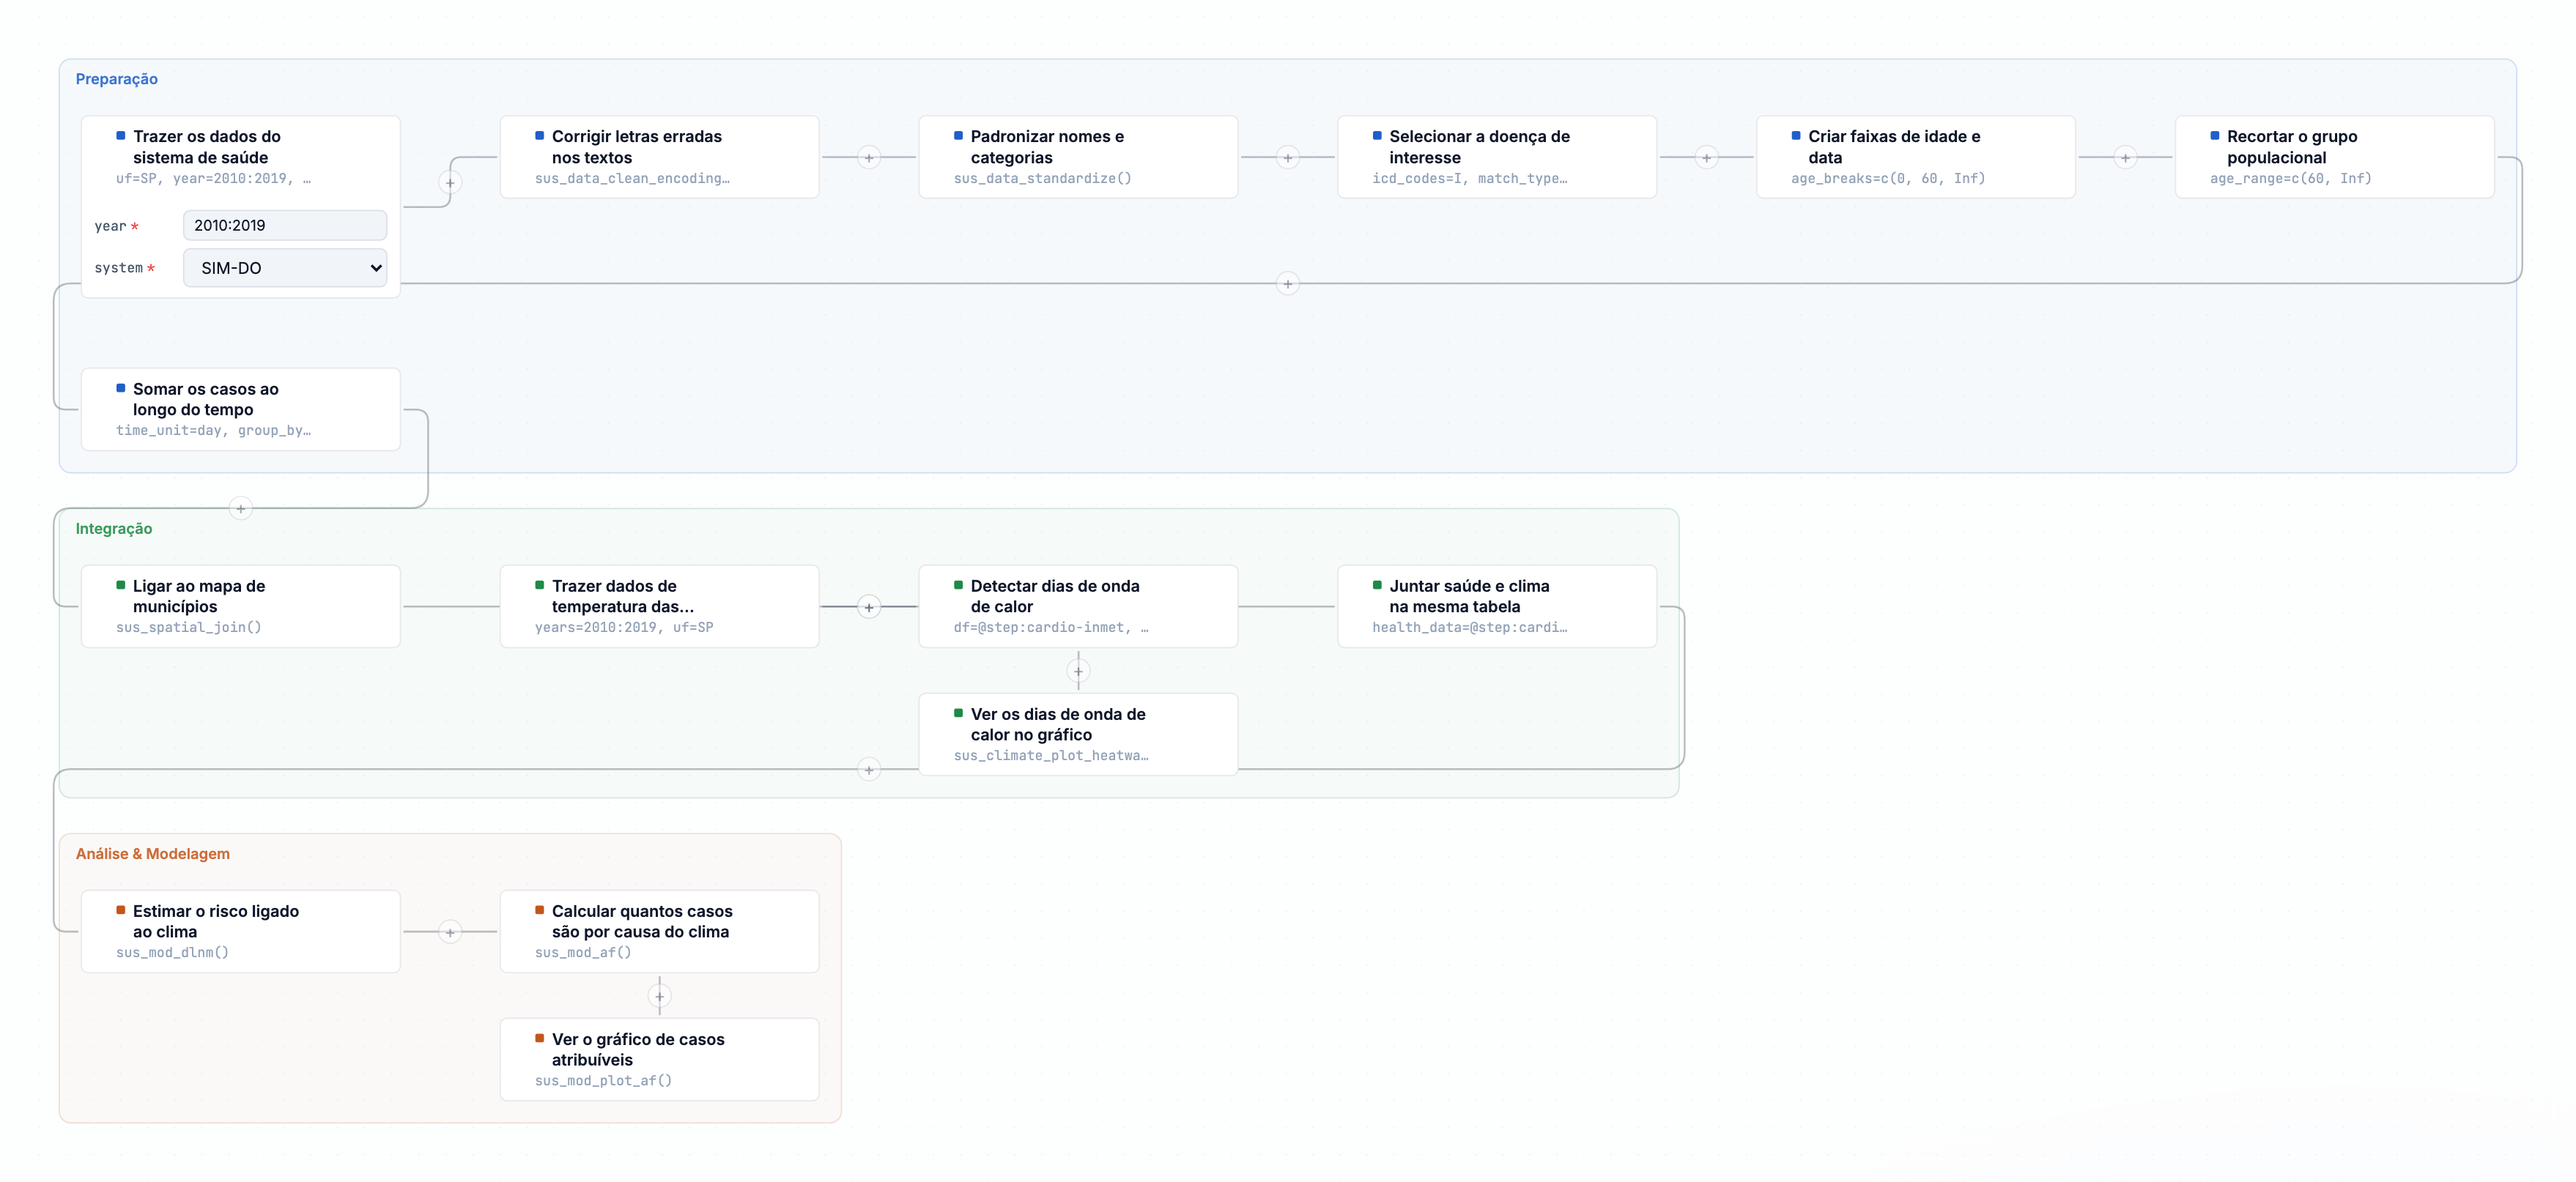
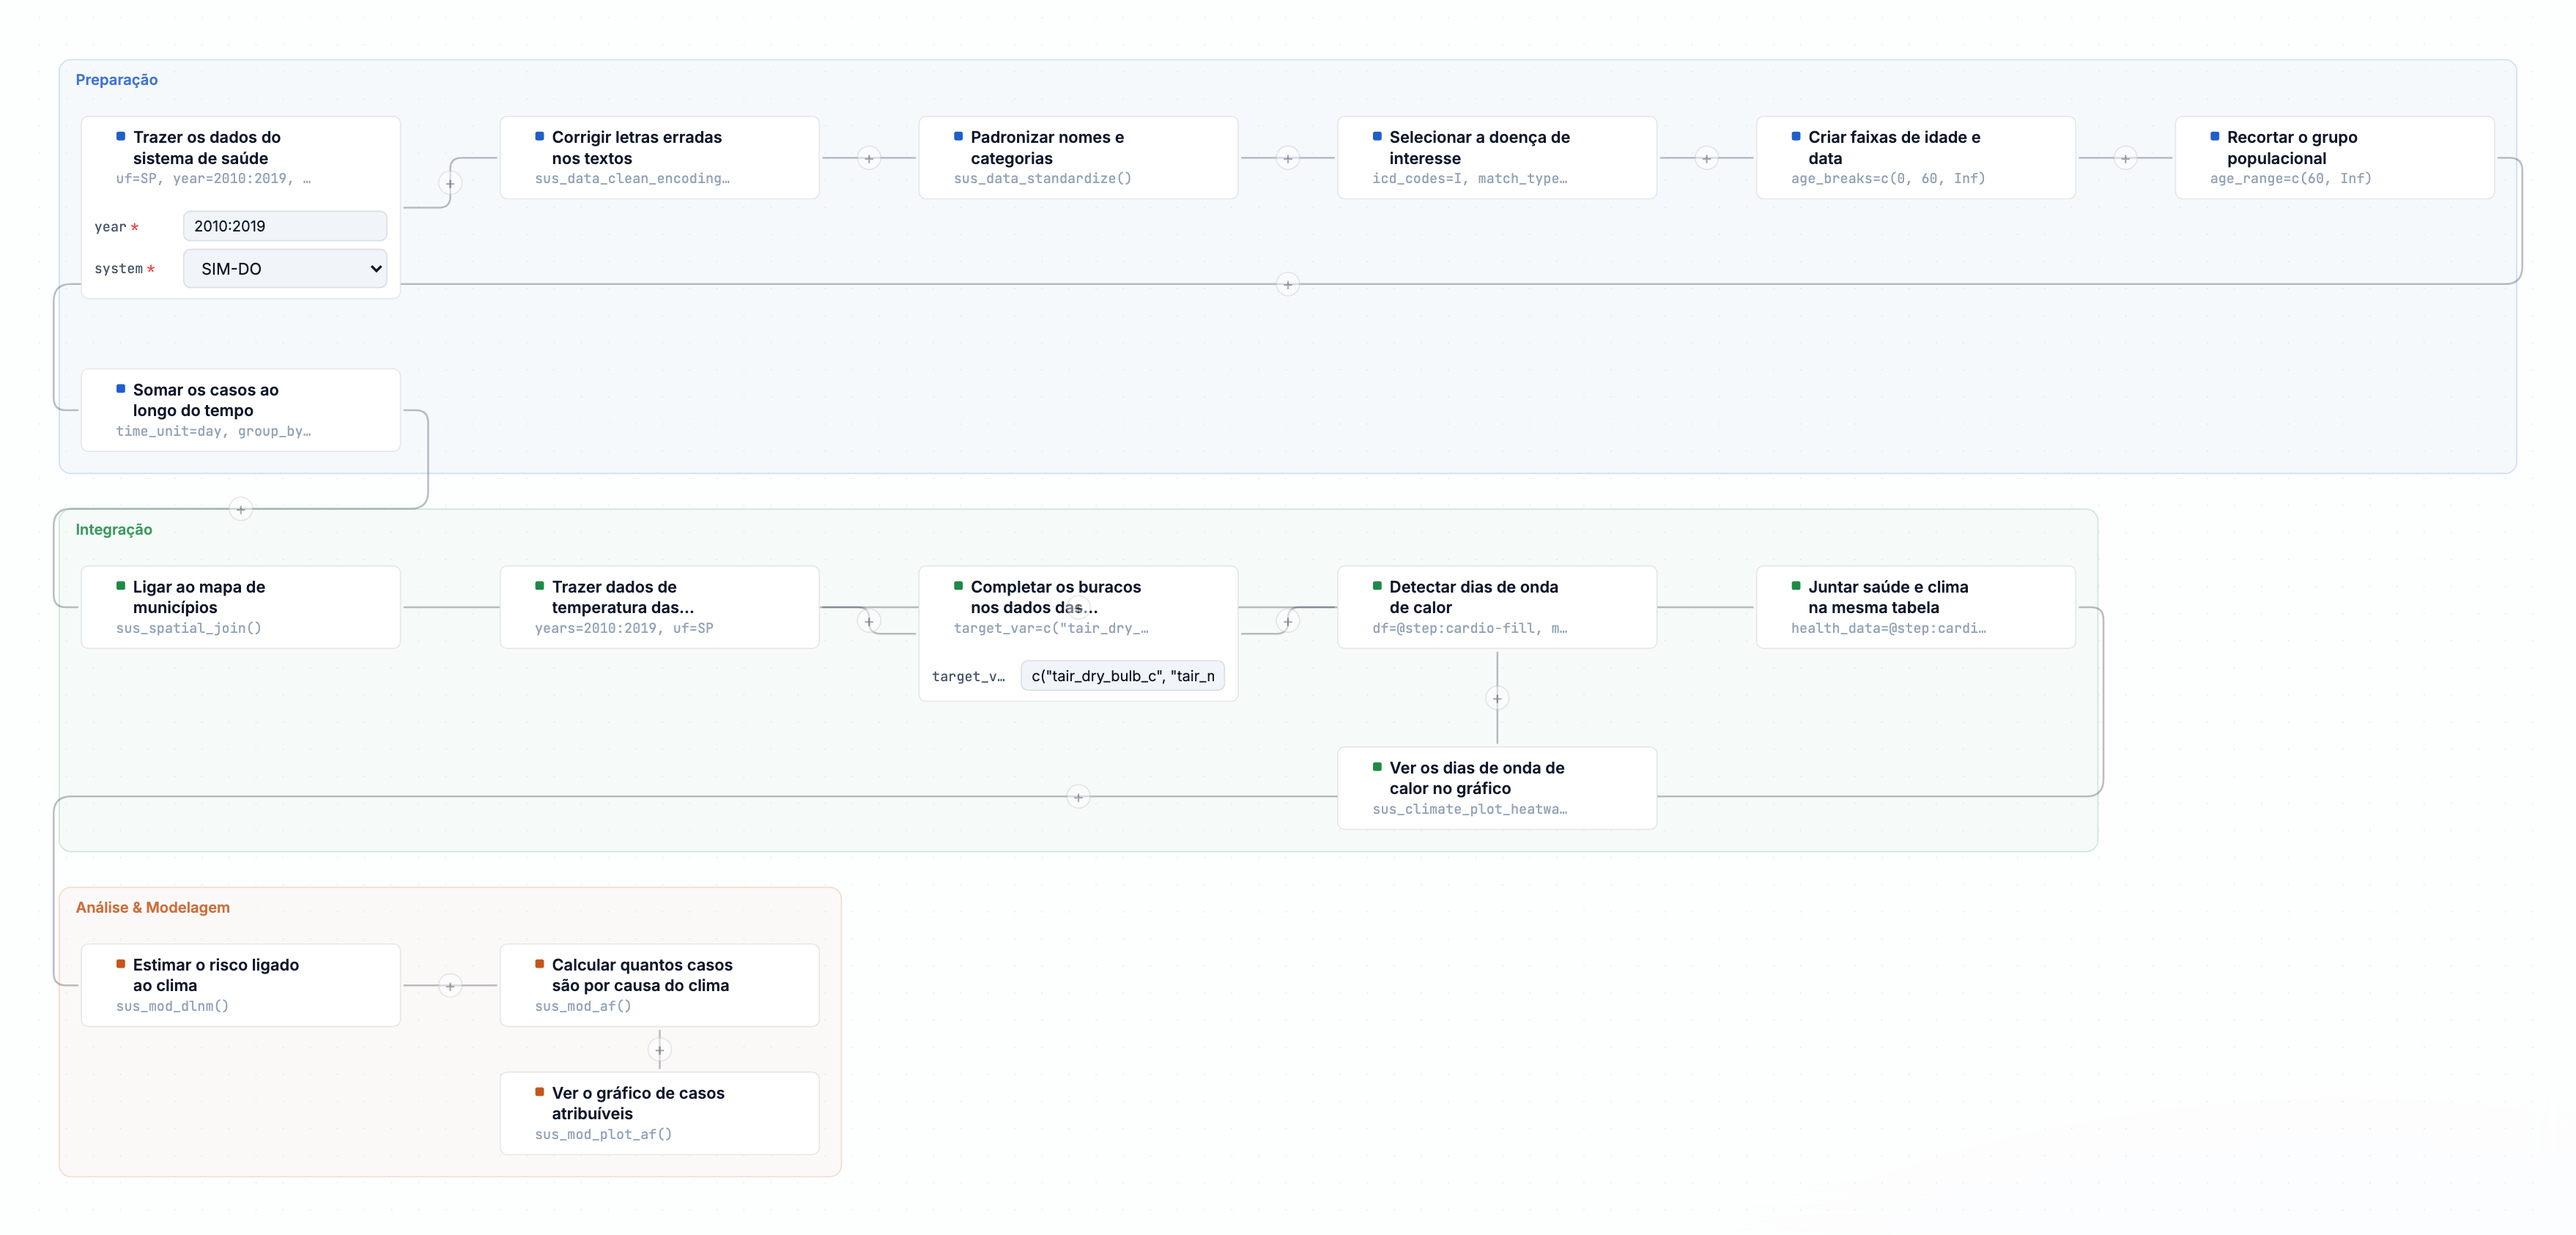
Case-study Modelos: add sus_climate_fill_inmet right after sus_climate_inmet
- dengue, respiratory, cardiovascular and cold-hospitalization templates fill station gaps
  (temperature; + humidity for respiratory; mean/max/min for the wave detections) and every
  later step reads the filled series
- plain-language title/description for Vigilancia mode; verify-graph step counts +1
- guide chapters 4 and 7-10: step lists renumbered, counts and Modelo screenshots refreshed
  (guide not re-rendered yet: installers must carry the new Modelos first)

diff --git a/src/templates/cardio-calor.ts b/src/templates/cardio-calor.ts
@@ -71,6 +71,16 @@ export const CARDIO_IDOSOS_CALOR: TutorialDef = {
       },
     },
     {
+      id: 'cardio-fill',
+      fn: 'sus_climate_fill_inmet',
+      values: { target_var: 'c("tair_dry_bulb_c", "tair_max_c", "tair_min_c")' },
+      explain: {
+        pt: 'Completamos as falhas das séries das estações (temperatura média, máxima e mínima) com um modelo de aprendizado de máquina treinado por estação (XGBoost), para que defasagens e indicadores não tenham buracos. Estações com mais de 40% de falhas são excluídas. Pode levar vários minutos; para testar a qualidade do preenchimento antes, use `run_evaluation = TRUE`.',
+        en: 'We fill the gaps in the station series (mean, maximum and minimum temperature) with a machine-learning model trained per station (XGBoost), so lags and indicators have no holes. Stations with more than 40% gaps are excluded. It can take several minutes; to test the quality of the filling first, use `run_evaluation = TRUE`.',
+        es: 'Rellenamos los vacíos de las series de las estaciones (temperatura media, máxima y mínima) con un modelo de aprendizaje automático entrenado por estación (XGBoost), para que rezagos e indicadores no tengan huecos. Se excluyen las estaciones con más de 40% de vacíos. Puede tardar varios minutos; para probar la calidad del relleno antes, use `run_evaluation = TRUE`.',
+      },
+    },
+    {
       // heatwave detection is a TERMINAL side-branch: it must read the raw INMET climate frame
       // (sus_climate_compute_heatwaves aborts unless sus_meta(df,"type") is climate/inmet/filled/
       // indicators — heatwaves.R:302-310) and it returns a climasus_hw list, not a climasus_df
@@ -80,7 +90,7 @@ export const CARDIO_IDOSOS_CALOR: TutorialDef = {
       // cardio-merged's `climate_data` reference reads.
       id: 'cardio-heatwave',
       fn: 'sus_climate_compute_heatwaves',
-      values: { df: stepRef('cardio-inmet'), method: 'WHO', percentile: '90', baseline_start: '"2010-01-01"', baseline_end: '"2015-12-31"' },
+      values: { df: stepRef('cardio-fill'), method: 'WHO', percentile: '90', baseline_start: '"2010-01-01"', baseline_end: '"2015-12-31"' },
       explain: {
         pt: 'Detectamos ondas de calor com a metodologia da OMS, percentil 90 como limiar. O limiar usa um período de referência fixo (2010–2015), não a série inteira; são cinco anos, uma base curta que deve ser declarada como limitação.',
         en: 'We detect heatwaves using the WHO methodology, 90th percentile as the threshold. The threshold uses a fixed reference period (2010–2015), not the full series; five years is a short baseline and should be declared as a limitation.',
@@ -105,7 +115,7 @@ export const CARDIO_IDOSOS_CALOR: TutorialDef = {
       // is the usual window in heat-mortality DLNM work, but treat it as an illustrative default.
       values: {
         health_data: stepRef('cardio-spatial'),
-        climate_data: stepRef('cardio-inmet'),
+        climate_data: stepRef('cardio-fill'),
         time_unit: 'day',
         climate_var: 'tair_dry_bulb_c',
         temporal_strategy: 'distributed_lag',

diff --git a/src/templates/dengue.ts b/src/templates/dengue.ts
@@ -88,6 +88,16 @@ export const DENGUE_CLIMA: TutorialDef = {
       },
     },
     {
+      id: 'dengue-fill',
+      fn: 'sus_climate_fill_inmet',
+      values: { target_var: '"tair_dry_bulb_c"' },
+      explain: {
+        pt: 'Completamos as falhas das séries das estações (temperatura) com um modelo de aprendizado de máquina treinado por estação (XGBoost), para que defasagens e indicadores não tenham buracos. Estações com mais de 40% de falhas são excluídas. Pode levar vários minutos; para testar a qualidade do preenchimento antes, use `run_evaluation = TRUE`.',
+        en: 'We fill the gaps in the station series (temperature) with a machine-learning model trained per station (XGBoost), so lags and indicators have no holes. Stations with more than 40% gaps are excluded. It can take several minutes; to test the quality of the filling first, use `run_evaluation = TRUE`.',
+        es: 'Rellenamos los vacíos de las series de las estaciones (temperatura) con un modelo de aprendizaje automático entrenado por estación (XGBoost), para que rezagos e indicadores no tengan huecos. Se excluyen las estaciones con más de 40% de vacíos. Puede tardar varios minutos; para probar la calidad del relleno antes, use `run_evaluation = TRUE`.',
+      },
+    },
+    {
       id: 'dengue-gdd',
       fn: 'sus_climate_compute_indicators',
       // GDD is the exposure that matches the vector cycle. Base 11 °C is the
@@ -95,7 +105,7 @@ export const DENGUE_CLIMA: TutorialDef = {
       // counting heat that suppresses development. `custom_thresholds` overrides
       // the regional defaults in sus_climate_compute_indicators().
       values: {
-        df: stepRef('dengue-inmet'),
+        df: stepRef('dengue-fill'),
         indicators: 'gdd',
         custom_thresholds: 'list(gdd_base = 11, gdd_upper = 35)',
       },

diff --git a/src/templates/respiratorio-pediatrico.ts b/src/templates/respiratorio-pediatrico.ts
@@ -78,12 +78,22 @@ export const RESPIRATORIO_PEDIATRICO: TutorialDef = {
       },
     },
     {
+      id: 'resp-fill',
+      fn: 'sus_climate_fill_inmet',
+      values: { target_var: 'c("tair_dry_bulb_c", "rh_mean_porc")' },
+      explain: {
+        pt: 'Completamos as falhas das séries das estações (temperatura e umidade) com um modelo de aprendizado de máquina treinado por estação (XGBoost), para que defasagens e indicadores não tenham buracos. Estações com mais de 40% de falhas são excluídas. Pode levar vários minutos; para testar a qualidade do preenchimento antes, use `run_evaluation = TRUE`.',
+        en: 'We fill the gaps in the station series (temperature and humidity) with a machine-learning model trained per station (XGBoost), so lags and indicators have no holes. Stations with more than 40% gaps are excluded. It can take several minutes; to test the quality of the filling first, use `run_evaluation = TRUE`.',
+        es: 'Rellenamos los vacíos de las series de las estaciones (temperatura y humedad) con un modelo de aprendizaje automático entrenado por estación (XGBoost), para que rezagos e indicadores no tengan huecos. Se excluyen las estaciones con más de 40% de vacíos. Puede tardar varios minutos; para probar la calidad del relleno antes, use `run_evaluation = TRUE`.',
+      },
+    },
+    {
       fn: 'sus_climate_aggregate',
       // The outcome is now weekly, so a 0–21 day lag is a genuine three-week
       // exposure window instead of a 0–30 day lag on monthly data.
       values: {
         health_data: stepRef('resp-spatial'),
-        climate_data: stepRef('resp-inmet'),
+        climate_data: stepRef('resp-fill'),
         climate_var: 'all',
         temporal_strategy: 'distributed_lag',
         lag_days: '21',

diff --git a/src/templates/hospitalizacao-frio.ts b/src/templates/hospitalizacao-frio.ts
@@ -71,6 +71,16 @@ export const HOSPITALIZACAO_FRIO: TutorialDef = {
       },
     },
     {
+      id: 'frio-fill',
+      fn: 'sus_climate_fill_inmet',
+      values: { target_var: 'c("tair_dry_bulb_c", "tair_max_c", "tair_min_c")' },
+      explain: {
+        pt: 'Completamos as falhas das séries das estações (temperatura média, máxima e mínima) com um modelo de aprendizado de máquina treinado por estação (XGBoost), para que defasagens e indicadores não tenham buracos. Estações com mais de 40% de falhas são excluídas. Pode levar vários minutos; para testar a qualidade do preenchimento antes, use `run_evaluation = TRUE`.',
+        en: 'We fill the gaps in the station series (mean, maximum and minimum temperature) with a machine-learning model trained per station (XGBoost), so lags and indicators have no holes. Stations with more than 40% gaps are excluded. It can take several minutes; to test the quality of the filling first, use `run_evaluation = TRUE`.',
+        es: 'Rellenamos los vacíos de las series de las estaciones (temperatura media, máxima y mínima) con un modelo de aprendizaje automático entrenado por estación (XGBoost), para que rezagos e indicadores no tengan huecos. Se excluyen las estaciones con más de 40% de vacíos. Puede tardar varios minutos; para probar la calidad del relleno antes, use `run_evaluation = TRUE`.',
+      },
+    },
+    {
       // cold-wave detection is a TERMINAL side-branch: it must read the raw INMET climate frame
       // (sus_climate_compute_coldwaves aborts unless sus_meta(df,"type") is climate/inmet/filled/
       // indicators — coldwaves.R:306-309) and it returns a climasus_cw list, not a climasus_df,

diff --git a/src/catalog/plain-language.ts b/src/catalog/plain-language.ts
@@ -16,6 +16,14 @@ export const PLAIN_LANGUAGE: Record<string, PlainEntry> = {
       es: 'Descarga los registros oficiales (muertes, internaciones, casos notificados) directo de DATASUS para el período y el lugar elegidos.',
     },
   },
+  sus_climate_fill_inmet: {
+    title: { pt: 'Completar os buracos nos dados das estações', en: 'Fill the holes in the station data', es: 'Rellenar los huecos en los datos de las estaciones' },
+    description: {
+      pt: 'Estima os valores que faltam nas séries das estações meteorológicas (temperatura, umidade...), para que a análise não tenha buracos. Pode levar alguns minutos.',
+      en: 'Estimates the values missing from the weather-station series (temperature, humidity...), so the analysis has no holes. It can take a few minutes.',
+      es: 'Estima los valores que faltan en las series de las estaciones meteorológicas (temperatura, humedad...), para que el análisis no tenga huecos. Puede tardar unos minutos.',
+    },
+  },
   sus_data_clean_encoding: {
     title: { pt: 'Corrigir letras erradas nos textos', en: 'Fix garbled text', es: 'Corregir letras erróneas en los textos' },
     description: {
